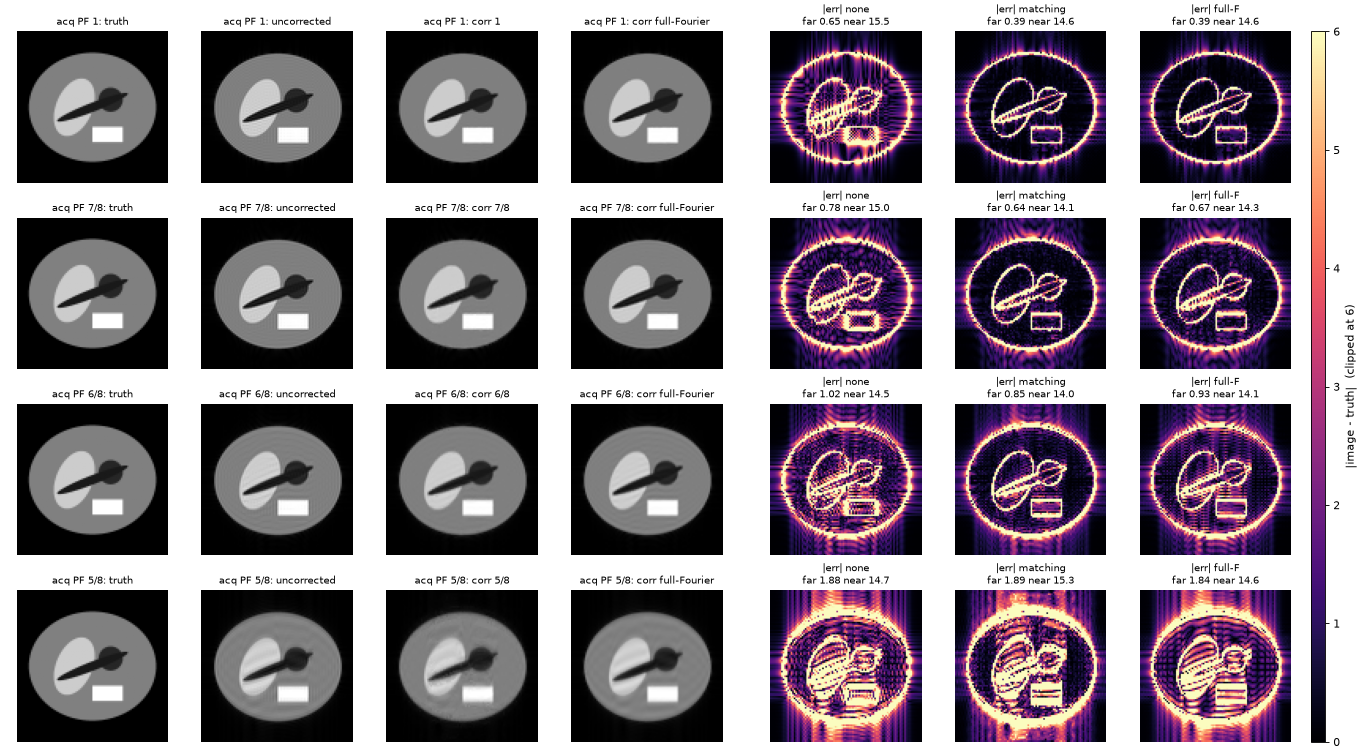
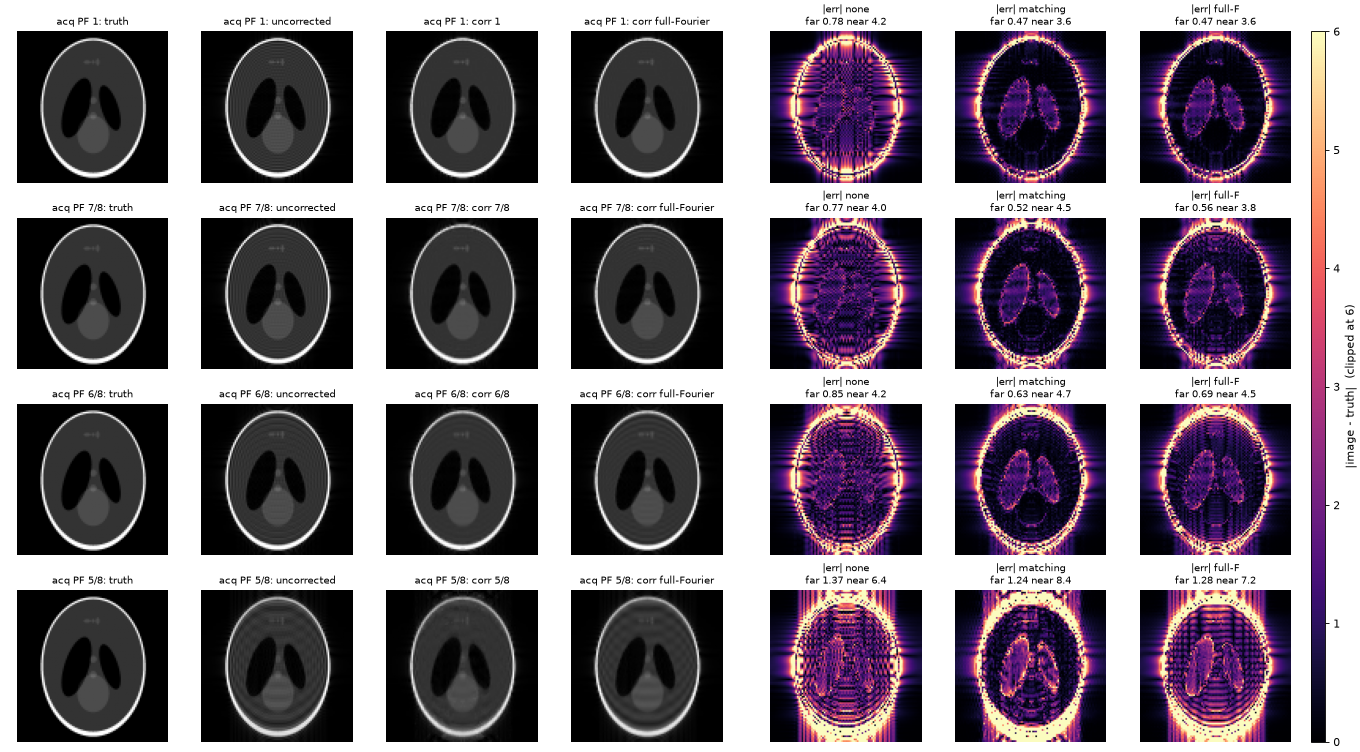
Match the reference shift set, switch the partial-Fourier phantom to Shepp-Logan, bump to 0.1.5
- Use 2M+1 subvoxel shifts (including +1/2 voxel), as the original RPG does
- Phantom analysis and tests use the modified Shepp-Logan head with aligned truth;
  tests run at 96x96 and 128x128 (the small features are too small at 64x64)
- Report edge cost of the partial-Fourier corrections in the README
- Note that the original RPG applies only phase-encode unringing for 5/8 magnitude data

diff --git a/tests/common/mod.rs b/tests/common/mod.rs
@@ -65,6 +65,44 @@ pub fn phantom_hi(nx: usize, ny: usize, r: usize) -> Vec<f64> {
     img
 }
 
+/// Modified Shepp-Logan head phantom (Toft 1996): `(amplitude, semi-axis a, semi-axis b, x0, y0, angle in degrees)`,
+/// coordinates in `[-1, 1]` with y running down the rows (the PE axis).
+const SHEPP_LOGAN: [(f64, f64, f64, f64, f64, f64); 10] = [
+    (1.0, 0.69, 0.92, 0.0, 0.0, 0.0),
+    (-0.8, 0.6624, 0.874, 0.0, -0.0184, 0.0),
+    (-0.2, 0.11, 0.31, 0.22, 0.0, -18.0),
+    (-0.2, 0.16, 0.41, -0.22, 0.0, 18.0),
+    (0.1, 0.21, 0.25, 0.0, 0.35, 0.0),
+    (0.1, 0.046, 0.046, 0.0, 0.1, 0.0),
+    (0.1, 0.046, 0.046, 0.0, -0.1, 0.0),
+    (0.1, 0.046, 0.023, -0.08, -0.605, 0.0),
+    (0.1, 0.023, 0.023, 0.0, -0.606, 0.0),
+    (0.1, 0.023, 0.046, 0.06, -0.605, 0.0),
+];
+
+/// Shepp-Logan phantom on an `(nx*r) x (ny*r)` grid, scaled so the skull is 100.
+pub fn shepp_logan_hi(nx: usize, ny: usize, r: usize) -> Vec<f64> {
+    let (hx, hy) = (nx * r, ny * r);
+    let mut img = vec![0.0; hx * hy];
+    for y in 0..hy {
+        for x in 0..hx {
+            let (u, v) = (
+                ((x as f64 + 0.5) / hx as f64) * 2.0 - 1.0,
+                ((y as f64 + 0.5) / hy as f64) * 2.0 - 1.0,
+            );
+            for &(amp, a, b, x0, y0, deg) in &SHEPP_LOGAN {
+                let (c, sn) = (deg.to_radians().cos(), deg.to_radians().sin());
+                let (dx, dy) = (u - x0, v - y0);
+                let (p, q) = (dx * c + dy * sn, -dx * sn + dy * c);
+                if (p / a).powi(2) + (q / b).powi(2) <= 1.0 {
+                    img[y * hx + x] += 100.0 * amp;
+                }
+            }
+        }
+    }
+    img
+}
+
 /// Signed frequency of FFT index `j` for length `n` (same convention as the library).
 pub fn freq(j: usize, n: usize) -> i64 {
     if j <= (n - 1) / 2 {
@@ -81,7 +119,7 @@ pub fn corrupted_and_truth(nx: usize, ny: usize, r: usize, nu: f64) -> (Plane, P
 }
 
 /// General form: `side = -1` zeroes the negative-ky side, `+1` the positive side; `phase` multiplies the
-/// object by a smooth phase map (the ground truth stays the magnitude).
+/// object by a smooth phase map, as in real data (the ground truth stays the magnitude).
 pub fn corrupted_and_truth_with(
     nx: usize,
     ny: usize,
@@ -90,8 +128,31 @@ pub fn corrupted_and_truth_with(
     side: i64,
     phase: bool,
 ) -> (Plane, Plane) {
+    corrupted_and_truth_from(&phantom_hi(nx, ny, r), nx, ny, r, nu, side, phase)
+}
+
+/// Same as `corrupted_and_truth_with` for the Shepp-Logan phantom.
+pub fn corrupted_and_truth_sl(
+    nx: usize,
+    ny: usize,
+    r: usize,
+    nu: f64,
+    side: i64,
+    phase: bool,
+) -> (Plane, Plane) {
+    corrupted_and_truth_from(&shepp_logan_hi(nx, ny, r), nx, ny, r, nu, side, phase)
+}
+
+fn corrupted_and_truth_from(
+    hi: &[f64],
+    nx: usize,
+    ny: usize,
+    r: usize,
+    nu: f64,
+    side: i64,
+    phase: bool,
+) -> (Plane, Plane) {
     let (hx, hy) = (nx * r, ny * r);
-    let hi = phantom_hi(nx, ny, r);
     let mut e = Engine::new();
     let mut h: Vec<C> = hi
         .iter()
@@ -104,9 +165,8 @@ pub fn corrupted_and_truth_with(
                 ((i % hx) as f64 + 0.5) / hx as f64,
                 ((i / hx) as f64 + 0.5) / hy as f64,
             );
-            let phi = 2.0
-                * std::f64::consts::PI
-                * (0.6 * u + 0.4 * (-((u - 0.5).powi(2) + (w - 0.5).powi(2)) / 0.1).exp());
+            let tau = 2.0 * std::f64::consts::PI;
+            let phi = 1.2 * (tau * 0.7 * u).sin() + (tau * 0.5 * w).cos();
             C::from_polar(v, phi)
         })
         .collect();

diff --git a/tests/pf_matrix.rs b/tests/pf_matrix.rs
@@ -1,4 +1,4 @@
-//! Acquired-PF x correction-PF matrix on the analytic phantom: which `--pf` setting works on which data.
+//! Acquired-PF x correction-PF matrix on the Shepp-Logan phantom: which `--pf` setting works on which data.
 //! Run with `--nocapture` to print the far-field RMSE table.
 mod common;
 
@@ -30,10 +30,10 @@ fn run(cor: &Plane, pf: Pf) -> Plane {
 fn matrix(nx: usize, ny: usize, side: i64) -> [[f64; 5]; 4] {
     let mut m = [[0.0; 5]; 4];
     for (i, &acq) in PFS.iter().enumerate() {
-        let (cor, truth) = corrupted_and_truth_with(nx, ny, R, nu(acq), side, true);
-        m[i][0] = rmse_far(&cor, &truth, 2);
+        let (cor, truth) = corrupted_and_truth_sl(nx, ny, R, nu(acq), side, true);
+        m[i][0] = rmse_far(&cor, &truth, 5);
         for (j, &c) in PFS.iter().enumerate() {
-            m[i][1 + j] = rmse_far(&run(&cor, c), &truth, 2);
+            m[i][1 + j] = rmse_far(&run(&cor, c), &truth, 5);
         }
     }
     eprintln!(
@@ -50,7 +50,7 @@ fn matrix(nx: usize, ny: usize, side: i64) -> [[f64; 5]; 4] {
 
 #[test]
 fn matching_correction_helps_and_is_best_for_7_8_and_6_8() {
-    for (nx, ny) in [(96, 96), (64, 64)] {
+    for (nx, ny) in [(96, 96), (128, 128)] {
         let m = matrix(nx, ny, -1);
         // full Fourier: clear gain
         assert!(m[0][1] < 0.8 * m[0][0], "{nx}x{ny} full: {:?}", m[0]);
@@ -75,8 +75,11 @@ fn five_eighths_setting_does_not_help_other_data() {
         // 5/8 setting on 1, 7/8, 6/8 data is worse than doing nothing
         assert!(m[i][4] > m[i][0], "{}: {:?}", NAMES[i], m[i]);
     }
-    // 5/8 data: no setting gives a large gain
-    assert!(m[3][1..].iter().all(|&v| v > 0.9 * m[3][0]), "{:?}", m[3]);
+    // 5/8 data keeps more error after any correction than any other acquisition does
+    let worst_other = (0..3)
+        .map(|i| m[i][1..].iter().cloned().fold(0.0, f64::max))
+        .fold(0.0, f64::max);
+    assert!(m[3][1..].iter().all(|&v| v > worst_other), "{:?}", m);
 }
 
 #[test]

diff --git a/src/shift.rs b/src/shift.rs
@@ -5,7 +5,7 @@ use anyhow::{Result, bail};
 use rustfft::num_complex::Complex64 as C;
 use std::f64::consts::PI;
 
-/// Kernel parameters: `nshifts` = M (shifts `s = -M..M-1`, step `1/(2M)` voxel),
+/// Kernel parameters: `nshifts` = M (shifts `s = -M..=M`, step `1/(2M)` voxel),
 /// oscillation window `[min_w, max_w]`.
 #[derive(Clone, Copy, Debug, PartialEq, Eq)]
 pub struct ShiftParams {
@@ -62,7 +62,7 @@ impl Engine {
             );
         }
         let m = p.nshifts;
-        let ns = 2 * m;
+        let ns = 2 * m + 1;
         let mut shifted = std::mem::take(&mut self.shifted);
         let mut absdiff = std::mem::take(&mut self.absdiff);
         let mut spec = std::mem::take(&mut self.spec);

diff --git a/tests/shift_reference.rs b/tests/shift_reference.rs
@@ -48,7 +48,7 @@ fn shifted_naive(line: &[f64], sigma: f64, zero_nyquist: bool) -> Vec<f64> {
 fn reference(line: &[f64], p: &ShiftParams) -> Vec<f64> {
     let n = line.len() as i64;
     let m = p.nshifts as i64;
-    let imgs: Vec<Vec<f64>> = (-m..m)
+    let imgs: Vec<Vec<f64>> = (-m..=m)
         .map(|s| {
             if s == 0 {
                 line.to_vec()

diff --git a/src/main.rs b/src/main.rs
@@ -34,7 +34,7 @@ struct Cli {
     /// Do not look for a sidecar
     #[arg(long)]
     no_json: bool,
-    /// Number of subvoxel shifts M (shifts of s/(2M) voxel, s = -M..M-1)
+    /// Number of subvoxel shifts M (shifts of s/(2M) voxel, s = -M..M)
     #[arg(long, default_value_t = 20)]
     nshifts: usize,
     /// Start of the oscillation window

diff --git a/README.md b/README.md
@@ -27,7 +27,13 @@ Gibbs-ringing removal for magnitude MRI, in pure Rust.
 
 ## Quick start
 
-Install (needs Rust 1.85 or newer; this puts `degibbs` on your `PATH`):
+Download the static Linux binary (x86-64) from the [v0.1.5 release](https://github.com/srikash/degibbs.rs/releases/tag/v0.1.5). It runs on Rocky 9 and 10, Ubuntu 22.04 and 24.04, and Fedora 44. Use `gh release download v0.1.5 -R srikash/degibbs.rs` while the repository is private.
+
+```
+tar xzf degibbs-v0.1.5-x86_64-linux-musl.tar.gz
+```
+
+Or build from source (needs Rust 1.85 or newer; this puts `degibbs` on your `PATH`):
 
 ```
 cargo install --git https://github.com/srikash/degibbs.rs
@@ -89,7 +95,7 @@ mrconvert dwi_degibbs.nii.gz out.mif -fslgrad dwi.bvec dwi.bval
 
 ## Containers (Docker and Apptainer)
 
-A multi-architecture image (linux/amd64 and linux/arm64, about 18 MB) is published to the GitHub Container Registry as `ghcr.io/srikash/degibbs.rs`. Tags: `latest` (tracks `main`), `main`, version tags such as `0.1.0` once released, and `sha-<commit>`.
+A multi-architecture image (linux/amd64 and linux/arm64, about 18 MB) is published to the GitHub Container Registry as `ghcr.io/srikash/degibbs.rs`. Tags: `latest` (tracks `main`), `main`, `0.1.5` (the current release), and `sha-<commit>`.
 
 The package is private while the repository is private. Log in first with a GitHub token that has the `read:packages` scope.
 
@@ -122,9 +128,9 @@ Pass the factor the scan was acquired with. The sidecar's `PartialFourier` sets 
 | acquired | `--pf` | expected result |
 |---|---|---|
 | full Fourier | `1` | the standard Kellner correction |
-| 7/8 | `7/8` | removes more ringing than `1` |
-| 6/8 | `6/8` | removes more ringing than `1` |
-| 5/8 | `5/8` | little or no benefit; ringing remains and the image blurs |
+| 7/8 | `7/8` | removes more ringing than `1`; edges lose some accuracy |
+| 6/8 | `6/8` | removes more ringing than `1`; edges lose some accuracy |
+| 5/8 | `5/8` | modest benefit (about 10% in the phantom); strong ringing remains and edges blur |
 
 A mismatched value gives a smaller gain, and `5/8` on any other data makes the result worse. The RPG paper recommends 6/8 over 5/8 when you have a choice at acquisition.
 
@@ -132,32 +138,35 @@ A mismatched value gives a smaller gain, and `5/8` on any other data makes the r
 
 ### Setup
 
-- The phantom is a 96 × 96 slice of a high-resolution object (ellipses and a rectangle, with a smooth phase), sampled 8× finer.
-- Its k-space is truncated to 96 lines. For partial Fourier, the missing lines on one side of k-space are zeroed.
+- The phantom is the modified Shepp-Logan head (Toft, 1996), scaled so the skull is 100 and the brain 20. It is multiplied by a smooth phase map, as in real data.
+- A 96 × 96 slice is sampled from the object at 8× the resolution, so k-space truncation produces true Gibbs ringing.
+- For partial Fourier, the missing lines on one side of k-space are zeroed.
 - The magnitude is then taken, as for zero-filled scanner data.
 - The truth is the high-resolution object averaged into voxels.
-- Errors are RMSE against that truth, measured more than 4 voxels from any edge, so they show ringing rather than edge blur.
+- Far-field error is the RMSE against that truth, measured more than 4 voxels from any edge. It shows ringing rather than edge blur. Near-edge error is measured within 2 voxels of an edge.
 
 ### Results
 
-Far-field RMSE (lower is better; bold marks the best correction in each row):
+Far-field RMSE (lower is better; bold marks the best correction in each row, and both when they are within 1%):
 
 | acquired | none | `--pf 1` | `--pf 7/8` | `--pf 6/8` | `--pf 5/8` |
 |---|---|---|---|---|---|
-| full Fourier | 0.649 | **0.392** | 0.405 | **0.392** | 1.228 |
-| 7/8 | 0.782 | 0.668 | **0.639** | 0.677 | 1.269 |
-| 6/8 | 1.023 | 0.929 | 0.915 | **0.852** | 1.381 |
-| 5/8 | 1.878 | 1.835 | 1.841 | **1.826** | 1.891 |
+| full Fourier | 0.782 | **0.472** | 0.478 | **0.468** | 0.857 |
+| 7/8 | 0.768 | 0.563 | **0.523** | 0.559 | 0.861 |
+| 6/8 | 0.851 | 0.686 | 0.672 | **0.626** | 0.884 |
+| 5/8 | 1.372 | 1.282 | 1.286 | 1.265 | **1.239** |
 
 ### Findings
 
-- Full-Fourier data improves by about 40%.
-- For 7/8 and 6/8 data, the matching setting removes 17–18% of the error and does better than treating the data as full Fourier.
-- The `5/8` setting increases the error on every other data set.
-- On 5/8 data nothing helps much. The best result is a 3% gain, and the matching `5/8` setting is slightly worse than doing nothing.
-- Edge error is 14–15.5 in every case. It comes from the resolution lost to k-space truncation, which no correction recovers.
+- Full-Fourier data improves by 40%.
+- For 7/8 and 6/8 data, the matching setting removes 32% and 26% of the far-field error. That is 7% and 9% better than treating the data as full Fourier.
+- The `5/8` setting increases the far-field error on every other data set, by 4% to 12%.
+- On 5/8 data the matching setting gives a 10% gain and the best result. A large error remains (1.239, against 0.47 to 0.63 for the other data sets).
+- Partial-Fourier corrections cost some edge accuracy. Near-edge error rises from 4.0 to 4.5 (7/8), 4.2 to 4.7 (6/8) and 6.4 to 8.4 (5/8), while full-Fourier data improves from 4.2 to 3.6.
+- Over the whole image, edges included, the partial-Fourier corrections do not lower the RMSE. It rises from 2.78 to 3.05 (7/8), 2.97 to 3.24 (6/8) and 4.52 to 5.73 (5/8). Full-Fourier data improves from 2.92 to 2.43, and `--pf 1` on 7/8 data gives 2.64.
 - Zeroing the other side of k-space gives the same picture.
-- With noise at SNR 30 (five seeds), the error floor is about 1.7 and the best setting gains about 10% (5% on 5/8 data). The matching setting is still best for 7/8 and 6/8 data, and `5/8` still hurts the other three.
+- With noise at SNR 30 (five seeds), the matching setting is still best for 7/8, 6/8 and 5/8 data. The gains are 27%, 24% and 10%. The `5/8` setting still increases the error on every other data set.
+- The size of the gain depends on the phase. With zero phase (a purely real object), the gains shrink to 7% to 14%.
 
 ### Figures
 
@@ -167,7 +176,7 @@ Far-field RMSE (lower is better; bold marks the best correction in each row):
 
 ![Phase-encode profiles and RMSE heatmaps](docs/qc_profiles.png)
 
-*Phase-encode profiles through the phantom, and heatmaps of far-field RMSE, absolute and relative to uncorrected, for every acquired and correction factor.*
+*Phase-encode profiles through the brain (column 58), and heatmaps of far-field RMSE, absolute and relative to uncorrected, for every acquired and correction factor.*
 
 This is one phantom. Real data will differ, so read the table for the ordering, not for the size of the gains.
 
@@ -175,6 +184,8 @@ This is one phantom. Real data will differ, so read the table for the ordering, 
 
 - Magnitude (real-valued) images only. Complex images are not supported.
 - Supported partial-Fourier factors are 1, 7/8, 6/8 and 5/8.
+- For `5/8`, the original RPG code applies only the phase-encode unringing to magnitude data. This tool runs the pipeline described in the paper, so its `--pf 5/8` output differs from the original there. The other settings agree with it to within 0.02% (relative RMS) on the phantom.
+- The partial-Fourier pipelines model zero-filled reconstruction. The phantom tests do not cover data reconstructed with POCS, homodyne or similar methods.
 - Each plane needs lines longer than `maxw + 2` samples, including the sub-lines the partial-Fourier scheme creates.
 
 ## Licence and citing
